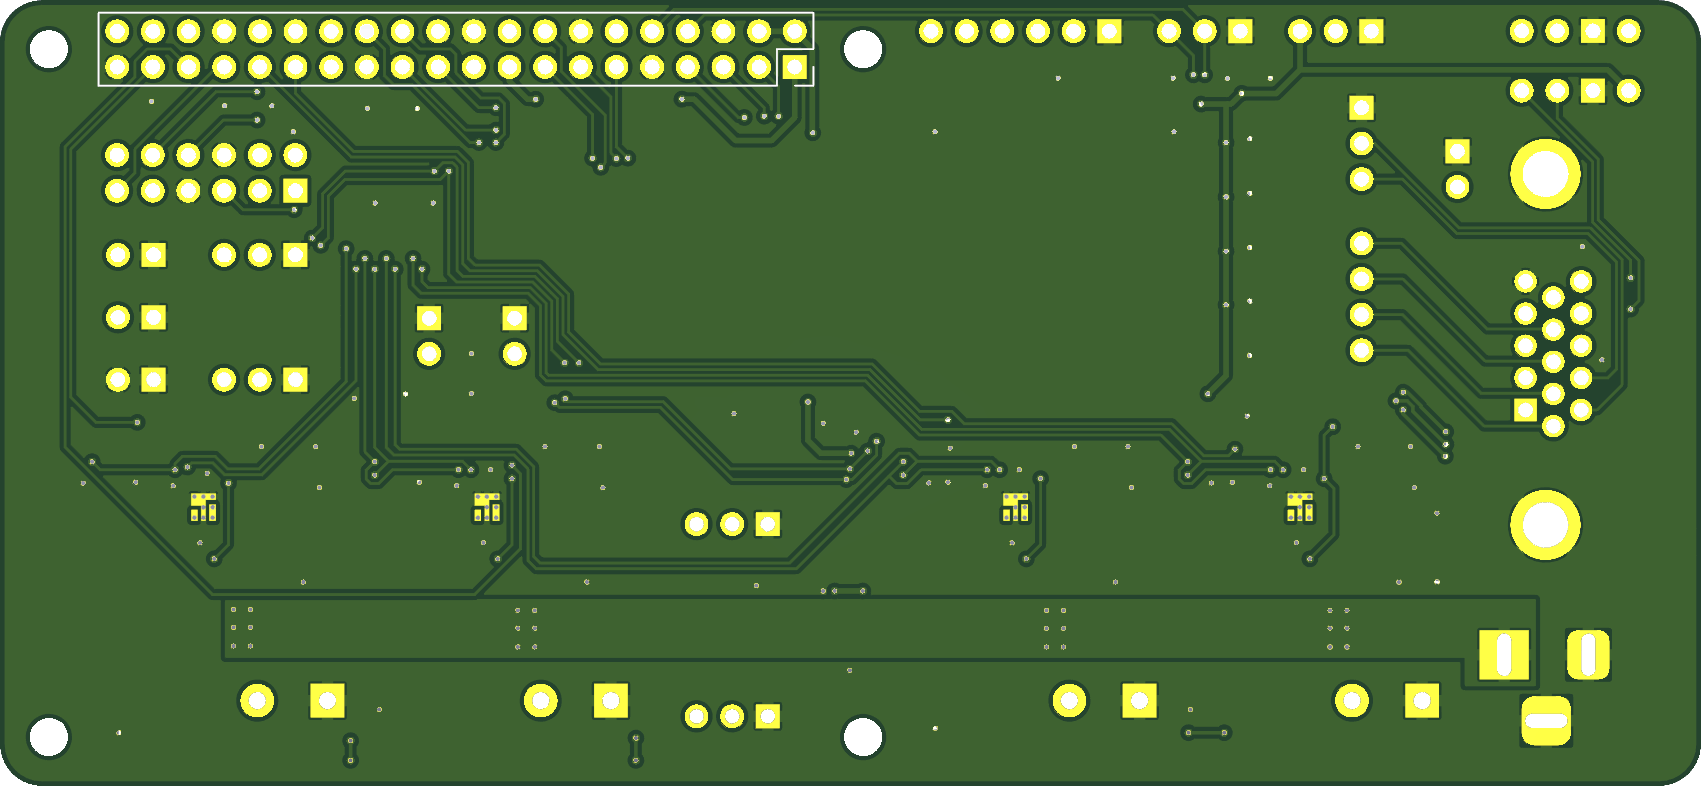
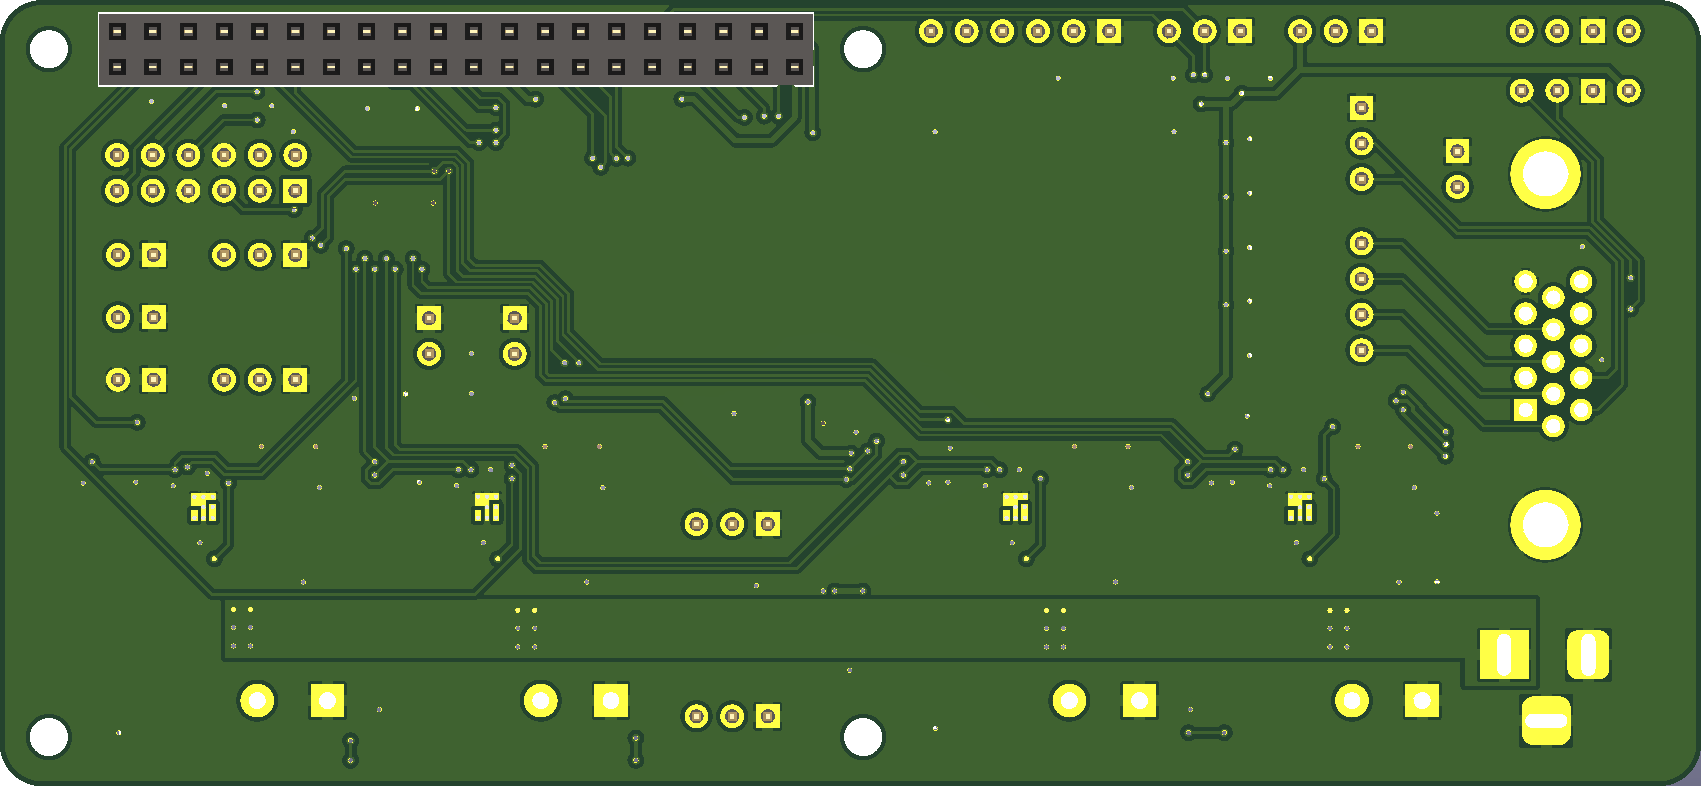
Updated PCB plots (incl. 3D view)

diff --git a/README.md b/README.md
@@ -4,6 +4,9 @@ The **E**mbedded **T**est**b**ench (**ETB**) is a platform consisting of a Raspb
 A focus is laid on low-power embedded systems such as wireless sensor nodes.
 Additionally, the ETB supports test automation with the possibility of remote control via TCP/IP.
 
+![PCB 3D (/media/pcb/embedded_testbench-3d)](/media/pcb/embedded_testbench-3d)
+
+
 ## Key Facts
 
 * 40-pin expansion header for Raspberry Pi [2|3|4] model B+
